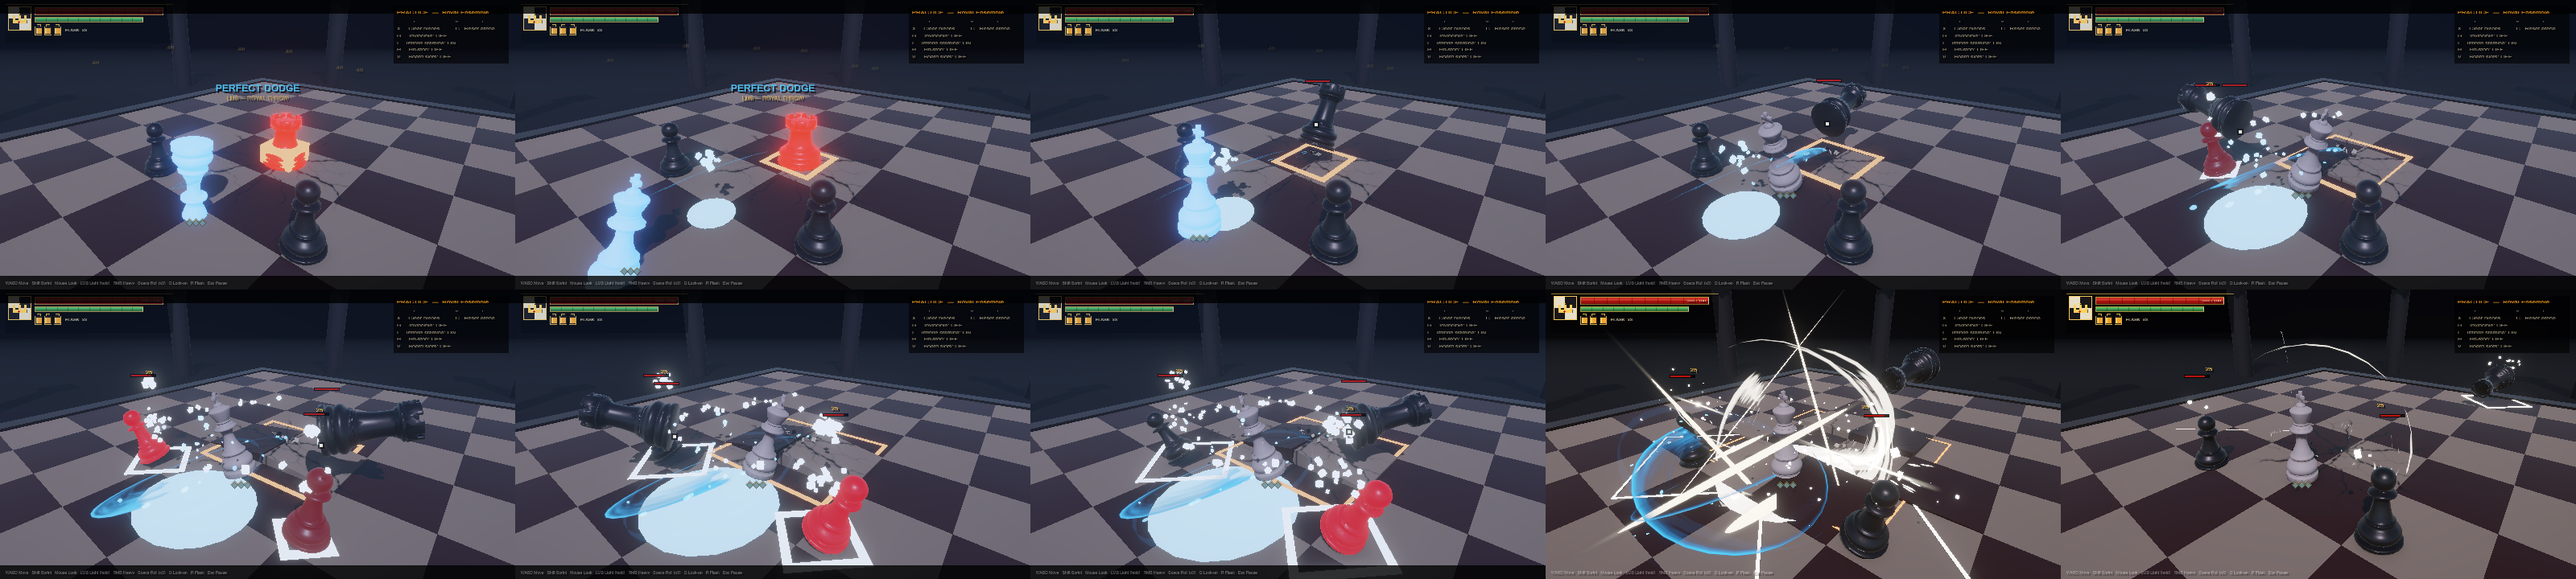
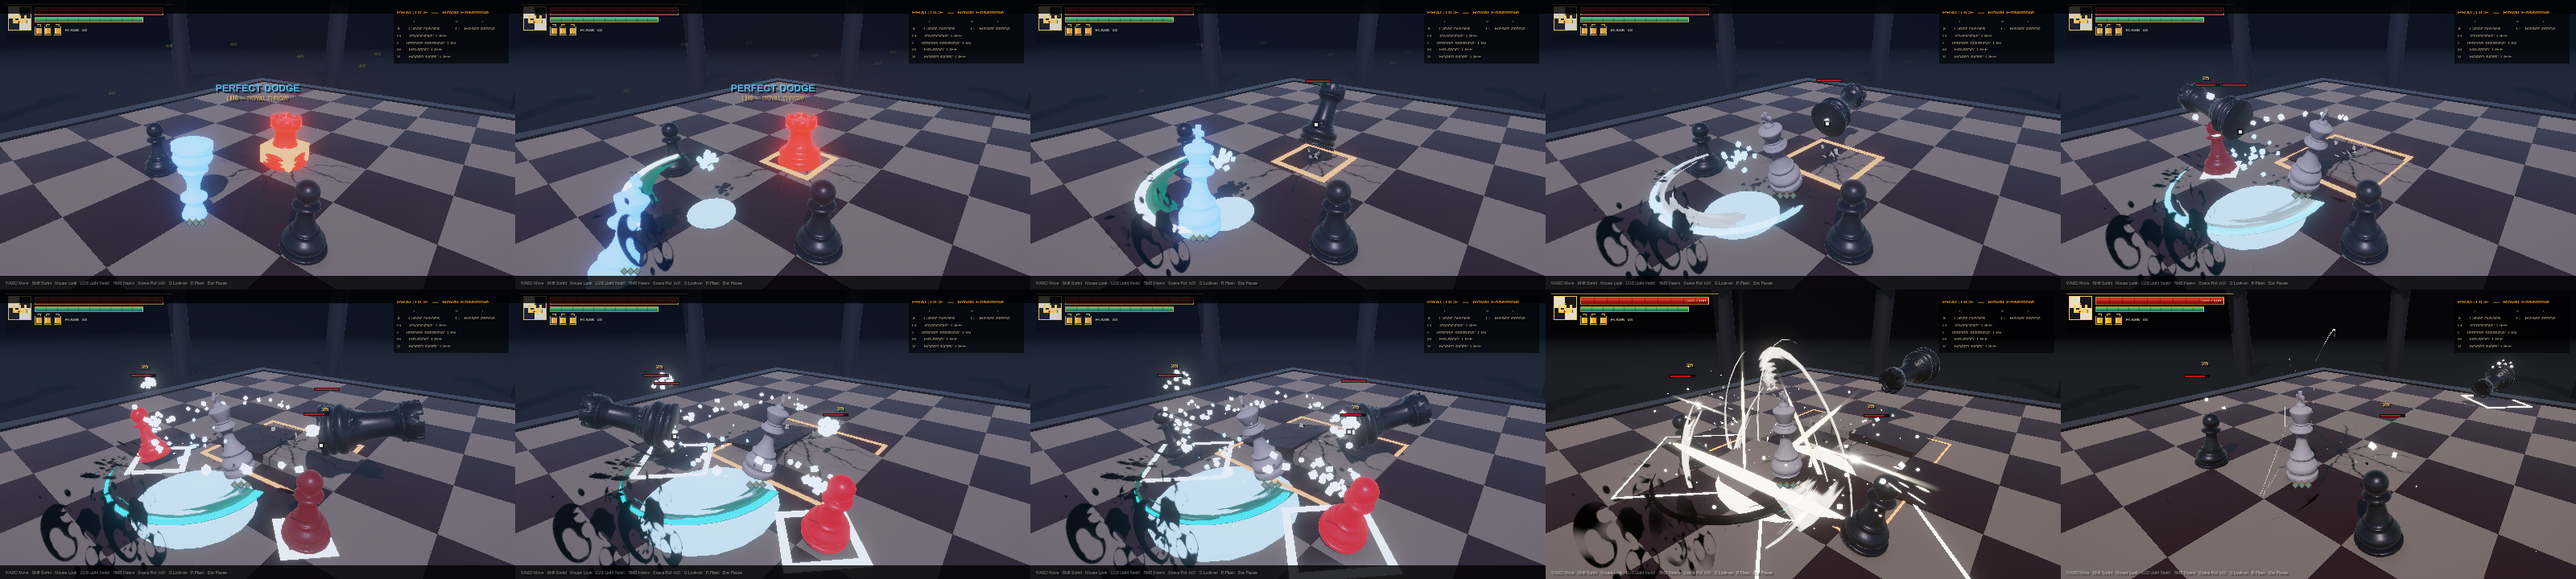
Smaller, higher healing aura; perfect dodge swirls Slash_Ink toward the roll side

diff --git a/Assets/Scripts/Combat/PlayerController.cs b/Assets/Scripts/Combat/PlayerController.cs
@@ -801,7 +801,7 @@ namespace KingLastPiece
             healed = false;
             Enter(State.Heal);
             // Tazo FX healing aura while drinking (falls back to the old gold sparks when the pack isn't there).
-            healFx = Vfx.Attach(FxLibrary.Instance != null ? FxLibrary.Instance.recoverHold : null, transform, Vector3.up * 0.02f, 1f);
+            healFx = Vfx.Attach(FxLibrary.Instance != null ? FxLibrary.Instance.recoverHold : null, transform, Vector3.up * 0.35f, 0.8f);
             SetGlow((healFx != null ? HealGreen : new Color(0.9f, 0.6f, 0.15f)) * 0.6f);
         }
 
@@ -885,8 +885,14 @@ namespace KingLastPiece
             Flash(new Color(0.6f, 1.2f, 2.2f), 0.25f);
             var cyan = new Color(0.45f, 0.8f, 1f);
             Effects.Shockwave(FlatPos, 1.8f, cyan, 0.4f);
-            // Silver-blue wind ring around the King: the attack slipped past.
-            Vfx.Slash(SlashFxKind.SlashD, transform.position + Vector3.up * 0.8f, transform.rotation, 1.3f, cyan);
+            // Ink swirl around the King, sweeping the way he slipped past the attack: it faces the attacker and turns
+            // toward the side the roll went (dodging right → swirls left-to-right, left → right-to-left).
+            Vector3 toAttacker = attacker != null ? attacker.FlatPos - FlatPos : -dodgeDir;
+            toAttacker.y = 0f;
+            if (toAttacker.sqrMagnitude < 0.01f) toAttacker = transform.forward;
+            float side = Vector3.Cross(toAttacker.normalized, dodgeDir).y;
+            bool turnRight = Mathf.Abs(side) > 0.1f ? side > 0f : Random.value < 0.5f;
+            Vfx.Slash(SlashFxKind.Ink, transform.position + Vector3.up * 0.8f, Quaternion.LookRotation(toAttacker), 1.3f, null, mirror: turnRight);
             Effects.Sparks(transform.position + Vector3.up * 1.1f, cyan, 18, 5f);
         }
 
